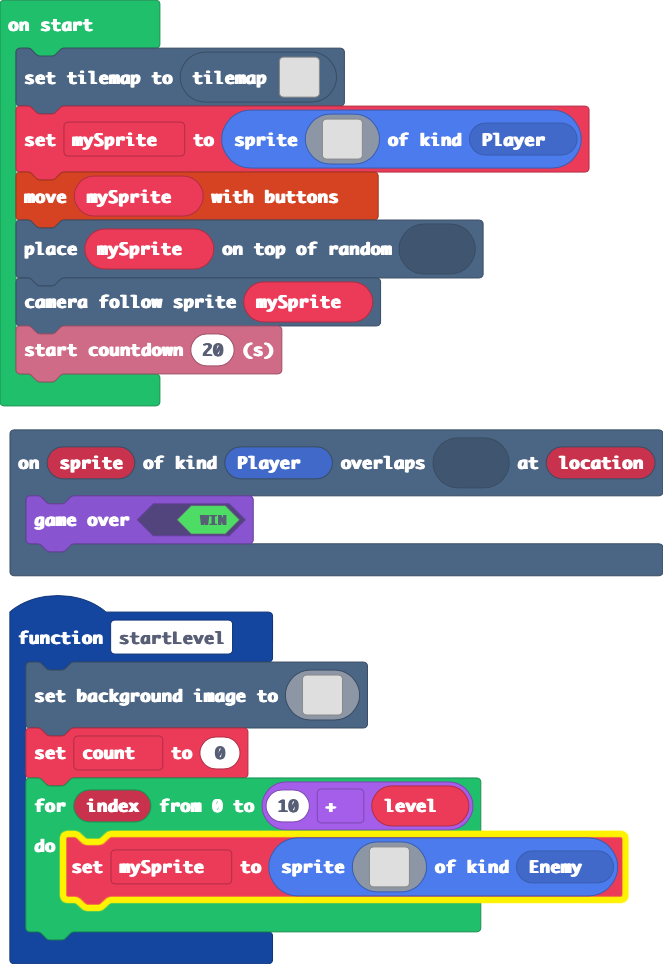
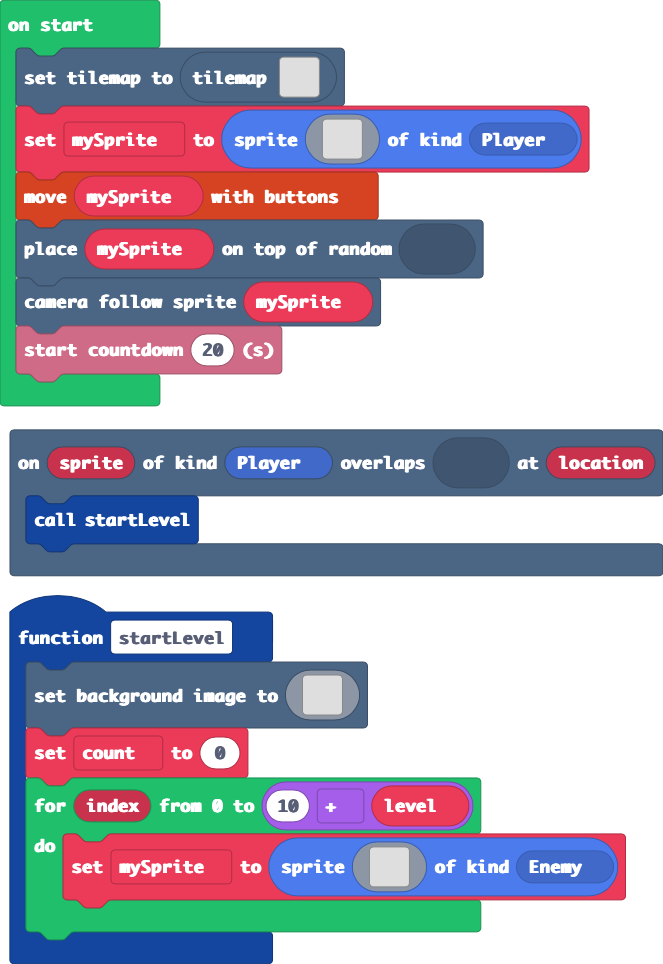
Update main.blocks, main.ts

Changed region(s): [[0.0905, 0.8402, 0.9653, 0.9647], [0.0302, 0.4979, 0.3922, 0.5913]]

diff --git a/main.ts b/main.ts
@@ -145,7 +145,7 @@ function startLevel () {
     }
 }
 scene.onOverlapTile(SpriteKind.Player, sprites.dungeon.collectibleInsignia, function (sprite, location) {
-    game.gameOver(true)
+    startLevel()
 })
 let count = 0
 let mySprite: Sprite = null
